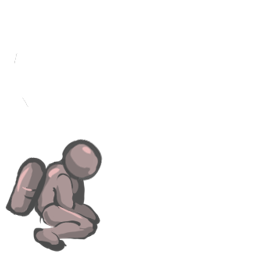
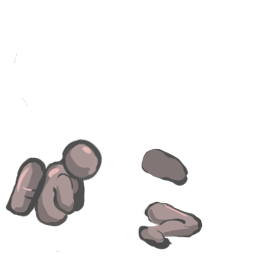
Added oxygen pickups You get them from attacking corpses

Changed region(s): [[0.125, 0.75, 0.4062, 1.0], [0.5312, 0.7812, 0.8125, 1.0], [0.5312, 0.5625, 0.75, 0.75]]

diff --git a/Assets/Player/Oxygen_Meter.cs b/Assets/Player/Oxygen_Meter.cs
@@ -1,11 +1,17 @@
 using Godot;
-using System;
+using System.Collections.Generic;
 
 public class Oxygen_Meter : Node2D
 {
-    Node2D GetOxygenPrefab()
+    class Oxygen_Symbol : Node2D
     {
-        return GD.Load<PackedScene>("res://Assets/Player/Oxygen.tscn").Instance() as Node2D;
+        public Oxygen_Symbol()
+        {
+            this.AddChild(GD.Load<PackedScene>("res://Assets/Player/Oxygen.tscn").Instance());
+            complete = Rand.Float01 + .7f;
+        }
+
+        public float timer = 0, complete;
     }
     
     Player player;
@@ -14,6 +20,8 @@ public class Oxygen_Meter : Node2D
     {
         player = this.FindParent<Player>();
     }
+
+    List<Oxygen_Symbol> pending = new List<Oxygen_Symbol>();
 
     public override void _Process(float delta)
     {
@@ -31,13 +39,38 @@ public class Oxygen_Meter : Node2D
             {
                 for(int i = count; i < oxygen; ++ i)
                 {
-                    var node = GetOxygenPrefab();
+                    var node = new Oxygen_Symbol();
+                    pending.Add(node);
                     AddChild(node);
                     node.Position = new Vector2(16f, 16f + 48f * i);
-                    node.FindChild<AnimationPlayer>().Play("Bubble");
+                    node.FindChild<AnimationPlayer>().Play("Spawn");
                 }
             }
         }
 
+        for(int i = pending.Count-1; i >= 0; --i)
+        {
+            var node = pending[i];
+            if (Node.IsInstanceValid(node))
+            {
+                node.timer += delta;
+                if (node.timer > node.complete)
+                {
+                    node.FindChild<AnimationPlayer>().Play("Bubble");
+                    pending.RemoveAt(i);
+                }
+            }
+            else pending.RemoveAt(i);
+        }
+    }
+}
+
+
+public class Oxygen_Pickup : Node2D
+{
+    public Oxygen_Pickup()
+    {
+        this.AddChild(GD.Load<PackedScene>("res://Assets/OxygenPickup/Oxygen Pickup.tscn").Instance());
+        Scene.Current.AddChild(this);
     }
 }

diff --git a/Assets/Player/Player.cs b/Assets/Player/Player.cs
@@ -62,6 +62,17 @@ public class Player : RigidBody2D
         data.Get<environment_forces>() = new Vector2(0, 64f);
     }
 
+    void On_Enter_Player(Body body)
+    {
+        var pickup = body.FindParent<Oxygen_Pickup>();
+        if (pickup != null)
+        {
+            pickup.QueueFree();
+            if (data.Get<Player.oxygen>() < 12)
+                data.Get<Player.oxygen>() ++;
+        }
+    }
+
 
     public class input
     {
@@ -184,6 +195,7 @@ namespace Player_States
             {
                 var offset = data.Get<GunBarrel>().GlobalPosition - data.Get<Arm>().GlobalPosition;
                 new Player_Projectile(data.Get<GunBarrel>().GlobalPosition, data.Get<Crosshair>().GlobalPosition + offset);
+                data.Get<Player.oxygen>() --;
                 //Debug.Log(data.Get<Crosshair>().Position, data.Get<GunBarrel>().Position);
             }
 
@@ -200,16 +212,16 @@ namespace Player_States
         public override void OnEnter(StateMachine stateMachine, TypeMap data)
         {
             data.Get<Crosshair>().QueueFree();
+            data.Get<AnimationPlayer>().Play("Death");
         }
 
         public override void OnUpdate(StateMachine stateMachine, TypeMap data, float delta, float state_time)
         {
-            data.Get<Player.move_velocity>().value.lerp(Vector2.Zero, state_time);
-            if (state_time > 1)
+            data.Get<Player.move_velocity>() = data.Get<Player.move_velocity>().value.lerp(Vector2.Zero, state_time);
+            if (state_time > 3)
                 Scene.Load("res://Scenes/Main.tscn");
         }
     }
-
 }
 
 

diff --git a/Scenes/Game/Game.cs b/Scenes/Game/Game.cs
@@ -28,9 +28,23 @@ class Corpse : Node2D, Interfaces.IDamageable
         Scene.Current.AddChild(this);
     }
 
+    bool damagable = true;
     public void OnDamage()
     {
-        QueueFree();
+        if (damagable)
+        {
+            this.FindChild<AnimationPlayer>().Play("Death");
+            damagable = false;
+
+            var count = Rand.Int(3) + 2;
+            for(int i = 0; i < count; ++ i)
+            {
+                var gpos = GlobalPosition;
+                gpos.x -= 32;
+                var pos = new Vector2(Rand.Float01 * 64, Rand.Float01*32) +gpos;
+                new Oxygen_Pickup().GlobalPosition = pos;
+            }
+        }
     }
 }
 
@@ -135,7 +149,7 @@ public class Game : Node2D
             if (cave_count == 3 && is_grounded) caves.Add(position);
         }
 
-        
+
         spawn_corpses(caves);
         spawn_edge_boundaries(minX, maxX);        
         spawn_player();
